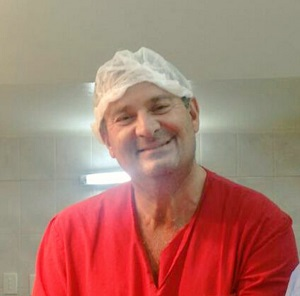
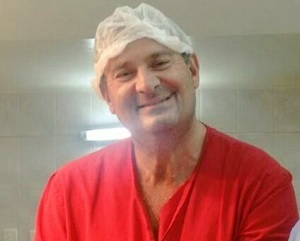
cambios en MQ y redondeo en imagenes

diff --git a/css/style.css b/css/style.css
@@ -5,6 +5,7 @@
 
 .header {
   display: flex;
+  flex-direction: row;
   flex-wrap: wrap;
   color: #0b0b3c;
   background-color: #6fedb7;
@@ -24,14 +25,12 @@
 
 /* navs */
 .nav ul, .logo :hover ul {
-  display: flex;
   list-style: none;
   width: 900px; }
 
 a {
   text-decoration: none;
   color: #5b5bd7;
-  font-size: medium;
   font-weight: bold;
   padding: 20px; }
 
@@ -42,6 +41,9 @@ a {
   background-image: url(../recursos/Imagenbase.jpg);
   background-size: cover;
   background-repeat: no-repeat; }
+
+.col img {
+  border-radius: 10%; }
 
 #main-contacto {
   display: flex;
@@ -75,12 +77,16 @@ form {
   background-image: linear-gradient(to top, #3e3939, #efe6e6); }
 
 #main-profesionales {
+  --bs-gutter-x: 1.5rem;
+  --bs-gutter-y: 0;
   display: flex;
-  align-content: flex-start;
-  justify-content: space-between;
-  align-items: baseline;
-  flex-wrap: wrap;
-  flex-direction: column;
+  flex-wrap: nowrap;
+  margin-top: calc(-1 * var(--bs-gutter-y));
+  margin-right: calc(-.5 * var(--bs-gutter-x));
+  margin-left: calc(-.5 * var(--bs-gutter-x));
+  align-content: center;
+  justify-content: space-evenly;
+  flex-direction: row;
   min-height: 65vh;
   color: #3d1010;
   background-image: linear-gradient(to top, #3e3939, #efe6e6); }
@@ -168,10 +174,15 @@ h4 {
   background-color: #3c3737; }
 
 /*Mobilelast - Max width*/
-@media (max-width: 720px) {
+@media (max-width: 719px) {
   .header {
-    justify-content: safe; }
+    flex-wrap: wrap;
+    justify-content: safe;
+    font-size: small; }
+  .header a img {
+    width: 70px; }
   .nav ul, .logo :hover ul {
-    align-items: self-start;
+    align-items: normal;
     display: list-item;
-    width: 250px; } }
+    max-width: 45vh;
+    margin: 0px; } }

diff --git a/utilities/_mains.scss b/utilities/_mains.scss
@@ -6,6 +6,10 @@
     background-size: cover;
     background-repeat: no-repeat;
 }
+   .col
+        img{
+            border-radius: 10%;
+        }
 
 #main-contacto {
     display: flex;
@@ -39,12 +43,16 @@
 }
 
 #main-profesionales {
+    --bs-gutter-x: 1.5rem;
+    --bs-gutter-y: 0;
     display: flex;
-    align-content: flex-start;
-    justify-content: space-between;
-    align-items: baseline;
-    flex-wrap: wrap;
-    flex-direction: column;
+    flex-wrap: nowrap;
+    margin-top: calc(-1 * var(--bs-gutter-y));
+    margin-right: calc(-.5 * var(--bs-gutter-x));
+    margin-left: calc(-.5 * var(--bs-gutter-x));
+    align-content: center;
+    justify-content: space-evenly;
+    flex-direction: row;
     @include colorsize-mains;
 }
 

diff --git a/pages/quienes-somos.html b/pages/quienes-somos.html
@@ -20,7 +20,7 @@
         <a href="../index.html" class="logo">
             <img src="../recursos/Medical-health-logo-design-on-transparent-background-PNG.png" alt="Logo de Medwork">
         </a>
-        <nav class="nav">
+       <nav class="nav">
             <ul>
                 <li><a href="../index.html">INICIO</a></li>
                 <li><a href="./quienes-somos.html">QUIENES SOMOS</a></li>
@@ -28,7 +28,7 @@
                 <li><a href="./empresas.html">EMPRESAS</a></li>
                 <li><a href="./contacto.html">CONTACTO</a></li>
             </ul>
-        </nav>
+        </nav> 
     </header>
     <main id="main-quienes-somos">
         <section class="container">

diff --git a/scss/main.scss b/scss/main.scss
@@ -18,7 +18,6 @@ h2 {
     padding: 10px;
     font-family: 'Segoe UI', Tahoma, Geneva, Verdana, sans-serif;
 }
-
 h3 {
     font-family: "Uni Sans Heavy Caps";
     padding: 5px;
@@ -60,14 +59,20 @@ h4 {
     background-color: rgb(60, 55, 55);
 }
 /*Mobilelast - Max width*/
-@media (max-width: 720px) {
+@media (max-width: 719px) {
     .header {
+        flex-wrap: wrap;
         justify-content: safe;
+        font-size: small;
+    }
+    .header a img {
+        width: 70px;
     }
 
     .nav ul {
-        align-items: self-start;
+        align-items: normal;
         display: list-item;
-        width: 250px;
+        max-width: 45vh;
+        margin:0px
     }
 }

diff --git a/index.html b/index.html
@@ -57,7 +57,7 @@
                 <div class="col">
                     <article class="profesional-3">
                         <h3>Dr. Pedro Gonzales</h3>
-                        <img src="./recursos/Dr.delta.jpg" alt="Dr. Delta">
+                        <img src="./recursos/dr. delta.jpg" alt="dr. Delta">
                     </article>
                 </div>
                 <a href="https://api.whatsapp.com/send/?phone=542215722309" class="boton-whatsapp">

diff --git a/utilities/_header.scss b/utilities/_header.scss
@@ -1,5 +1,6 @@
 .header {
     display: flex;
+    flex-direction: row;
     flex-wrap: wrap;
     color: rgb(11, 11, 60);
     background-color: $fondo-header;
@@ -22,14 +23,12 @@
 
 /* navs */
 .nav ul {
-    display: flex;
     list-style: none;
     width: 900px;
 }
      a {
     text-decoration: none;
     color: rgb(91, 91, 215);
-    font-size: medium;
     font-weight: bold;
     padding: 20px;
 }

diff --git a/pages/profesionales.html b/pages/profesionales.html
@@ -48,7 +48,7 @@
                     </article>
                     <article class="profesional-3">
                         <h3>Dr. Pedro Gonzales</h3>
-                        <img src="../recursos/Dr.delta.jpg" alt="Dr. Delta">
+                        <img src="../recursos/dr.delta.jpg" alt="Dr. Delta">
                     </article>
                 </div>
                 <div class="col">

diff --git a/pages/empresas.html b/pages/empresas.html
@@ -60,7 +60,6 @@
                     </a>
                 </article>
             </section>
-            <br><br>
             <a href="https://api.whatsapp.com/send/?phone=542215722309" class="boton-whatsapp">
                 <img src="../recursos/whatsapp.png" alt="boton-whatsapp">
             </a>
